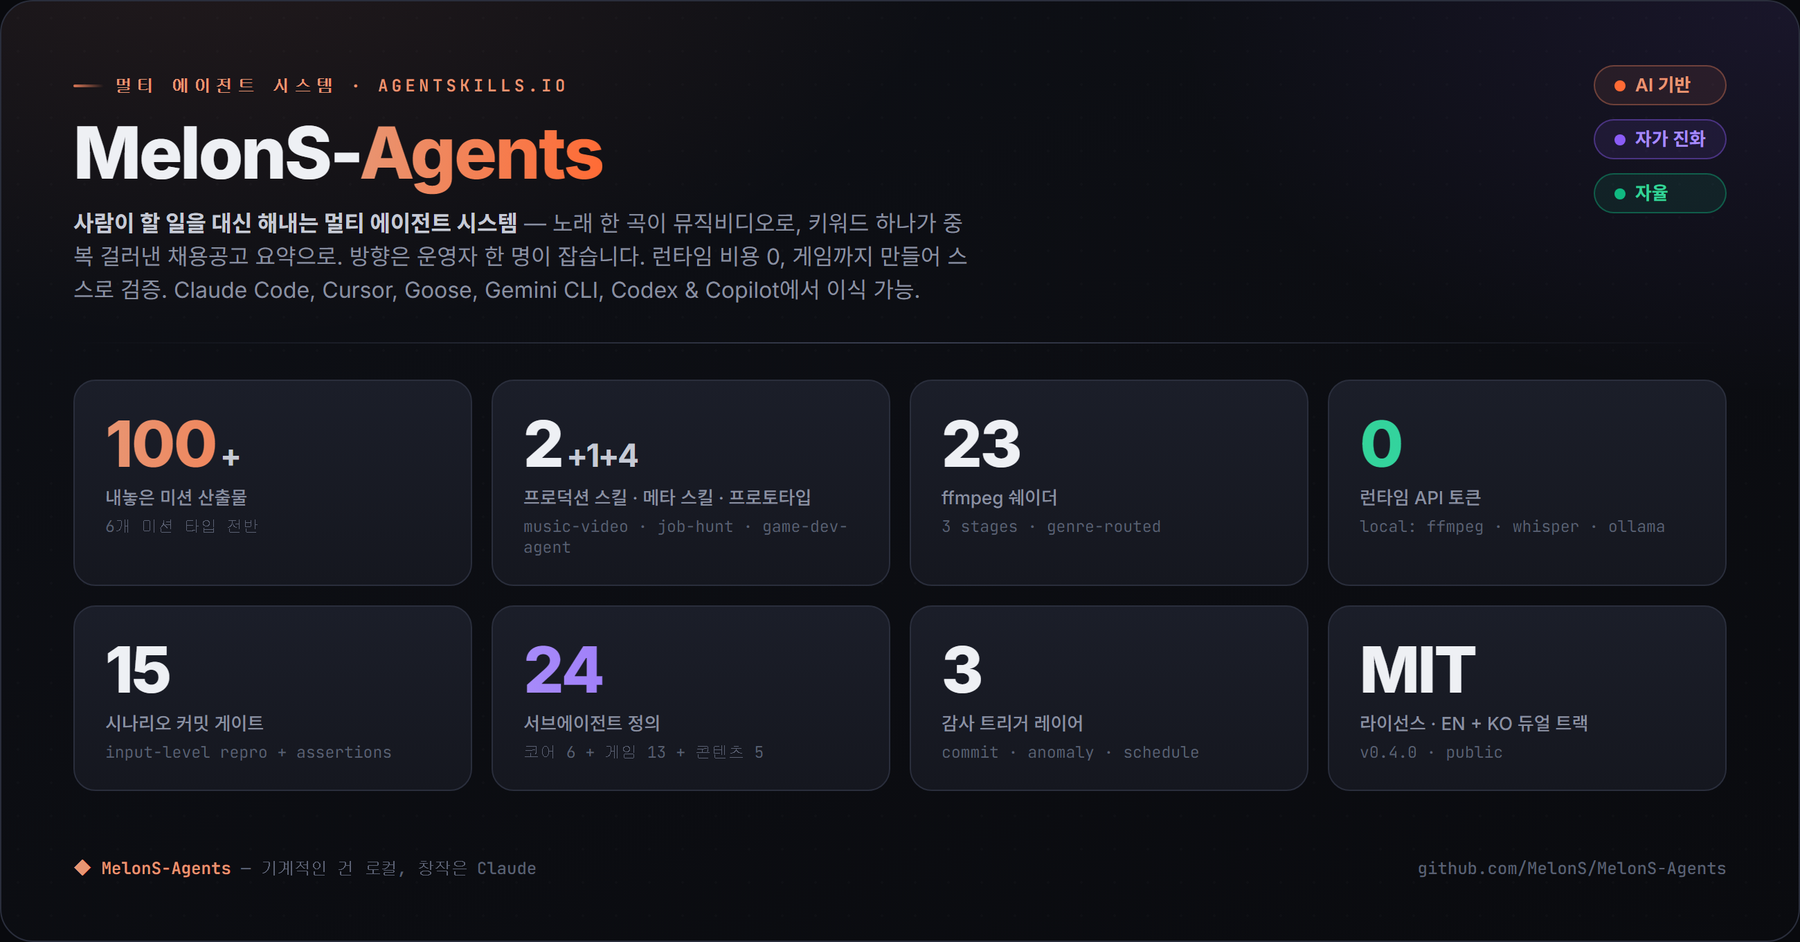
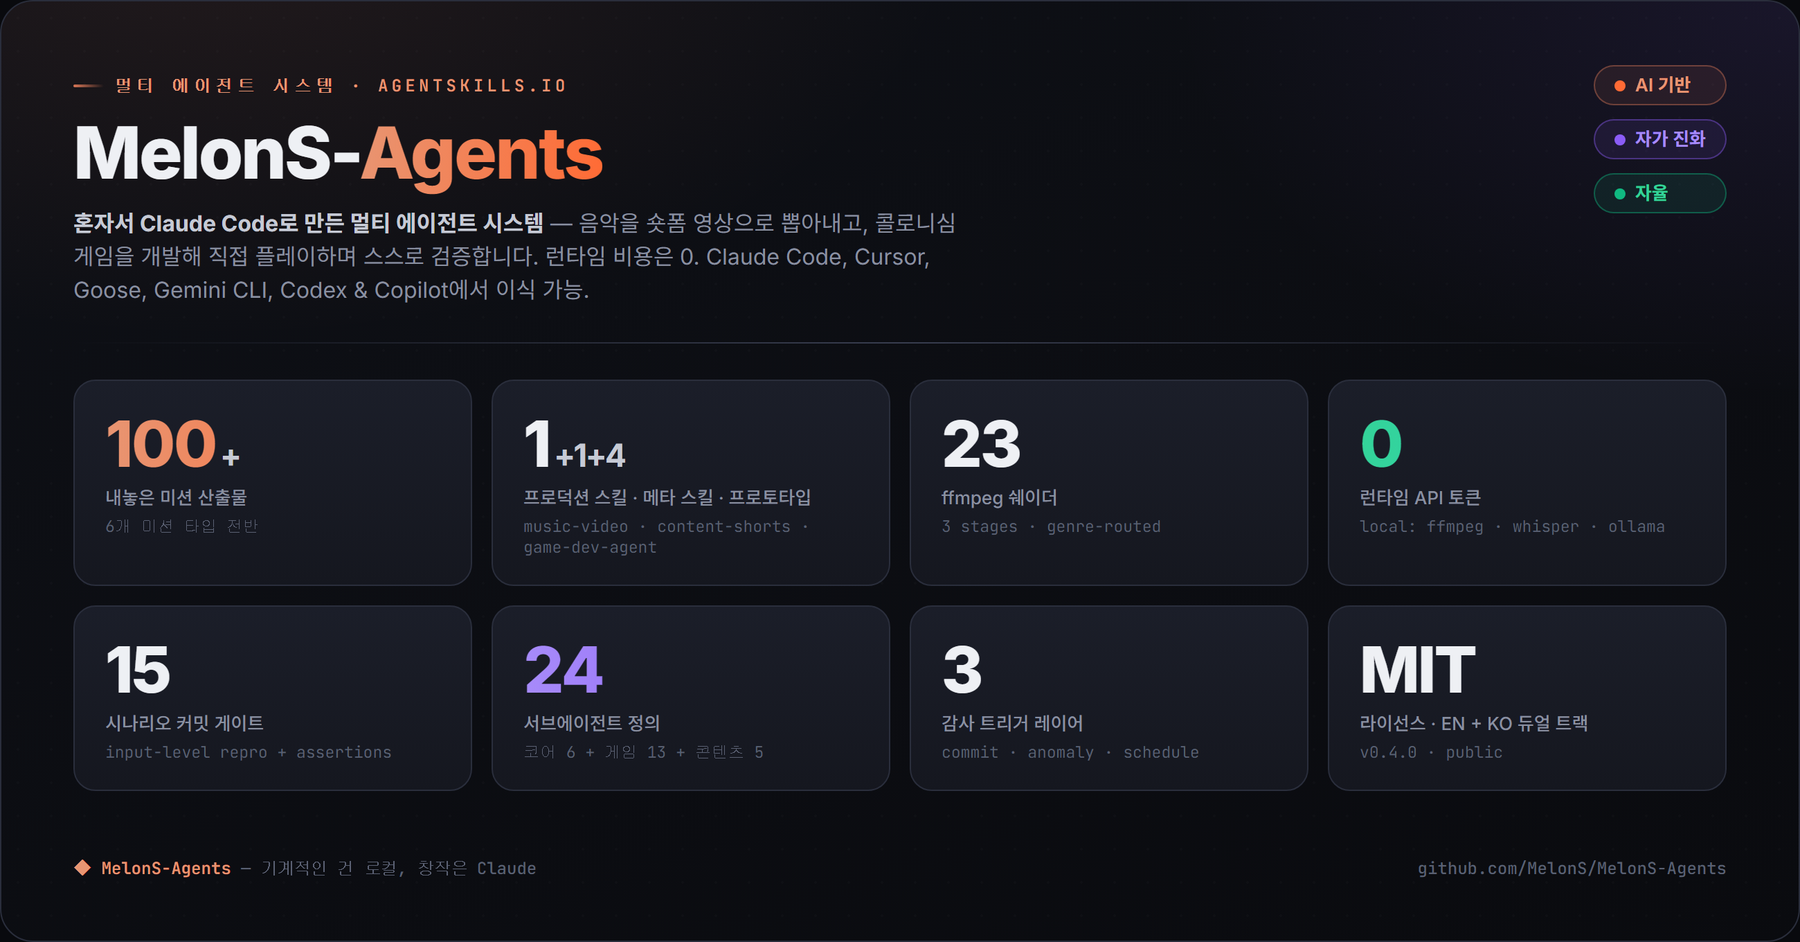
docs(readme): honest reframe — job-hunt parked; plain-Korean first line
Two operator corrections, both honesty/clarity:

1. job-hunt was shown as a Production pipeline, but the Korean job boards it
   targeted (Saramin, Wanted, JobKorea, Worknet…) now block scraping, so the
   live digest never came together — it runs only on mock/dry-run, and dev
   stopped in May. Calling it "production" broke the repo's honest-by-design
   ethos. Reclassified everywhere: table status -> Parked; dropped from the
   "It ships" claim (the one real production pipeline is music-video);
   added to the Honest-by-design negatives; relabeled in Run paths; removed
   from the first line and the hero-stats card (2 production skills -> 1).

2. The reframed first line read awkward in Korean (subject switched mid-
   sentence). Rewrote the identity line as a plain, honest sentence, EN+KO:
   - KO: 혼자서 Claude Code로 만든 멀티 에이전트 시스템입니다. 음악을 숏폼
     영상으로 뽑아내고, 콜로니심 게임을 개발해 직접 플레이하며 스스로 검증합니다.
   - EN: A multi-agent system built solo with Claude Code. It turns music into
     short-form video, and builds a colony-sim game it plays to verify itself.

Re-rendered the hero-stats card (EN+KO) to match. Parity + IP checks pass.

Changed region(s): [[0.0311, 0.2155, 0.5289, 0.3386], [0.3111, 0.5541, 0.4667, 0.5849], [0.28, 0.431, 0.3733, 0.4926]]

diff --git a/README.md b/README.md
@@ -4,9 +4,9 @@
 
 [한국어](./README.ko.md) · **English** · [**Live site →**](https://melons.github.io/MelonS-Agents/)
 
-### A multi-agent system that does your production work: a song → a music video, a keyword → a deduplicated job digest. One operator directs.
+### A multi-agent system built solo with [Claude Code](https://docs.anthropic.com/claude-code). It turns music into short-form video, and builds a colony-sim game it plays to verify itself.
 
-**Built by one operator with [Claude Code](https://docs.anthropic.com/claude-code) · English + Korean from day one.**
+**Zero runtime API cost · English + Korean from day one.**
 
 [![main-protection](https://github.com/MelonS/MelonS-Agents/actions/workflows/main-protection.yml/badge.svg?branch=main)](https://github.com/MelonS/MelonS-Agents/actions/workflows/main-protection.yml)
 ![GitHub last commit](https://img.shields.io/github/last-commit/MelonS/MelonS-Agents?style=flat-square)
@@ -20,25 +20,25 @@
 
 </div>
 
-- **It ships.** Two production pipelines deliver on a schedule — a **music-video** maker (a song → a 60-second 9:16 short) and a **job-hunt** digest (a keyword → a deduplicated Korean job-board summary).
+- **It ships.** The **music-video** pipeline delivers on a schedule — a song → a 60-second 9:16 short (beat-cut, genre-graded). A second pipeline, **content-shorts**, already runs end-to-end but isn't on a cadence yet.
 - **Zero runtime cost.** Local open-source tools (ffmpeg · whisper.cpp · ollama · aubio) do the mechanical work; Claude Code agents only orchestrate — so a mission spends **zero runtime API tokens**.
 - **It checks its own work.** The showcase — the colony-sim **PawnSim** — is *built and play-verified* by the agent: real player clicks replayed, each asserted to actually change game state, long unattended runs graded by a screenshots-only sub-agent.
 
 *One operator's agent system, in the open: the media pipelines are yours to clone and run (Mac/Linux) — the game and the engineering are here to read and learn from.*
 
-![MelonS-Agents — by the numbers: 100+ outputs, 2 production skills, 23 shaders, 0 runtime API tokens, 15-scenario gate, 24 subagents, 3 audit layers, MIT](docs/visuals/01-hero-stats.png)
+![MelonS-Agents — by the numbers: 100+ outputs, 1 production skill, 23 shaders, 0 runtime API tokens, 15-scenario gate, 24 subagents, 3 audit layers, MIT](docs/visuals/01-hero-stats.png)
 
 ## What works today
 
 | Track | What it does | Status | Runnable today |
 |-------|--------------|--------|----------------|
 | **music-video** | a song in → a 60-second 9:16 short (beat-aligned cuts, vintage ffmpeg shaders) | Production\* | ✅ Mac/Linux — `./scripts/first-touch.sh`, ~60 s |
-| **job-hunt** | one seed keyword → a deduplicated Korean job-board digest (11 sources) | Production\* | ✅ ~5 s, no network or keys |
+| **job-hunt** | a keyword → a Korean job-board digest (11 source plugins) | Parked | ❌ KR job boards now block scraping — mock/dry-run only |
 | **PawnSim** · built by `game-dev-agent` | a self-verified colony-sim game prototype | In development | ⚠ Windows + Unity 6000.0.75f1 |
 | **content-shorts** · built by a 4-team legal-gated pipeline | a topic → a sourced, copyright-reviewed 9:16 short (info / news / idol formats) | In development | ⚠ runs end-to-end (2026-07-01); needs a Pexels key |
 | **product-cf** | a product photo → a CF-style short | Parked | ❌ parked on an honest negative finding |
 
-<sub>\*"Production" = ships a real deliverable on a schedule (only these two count today).  `game-dev-agent` is the meta-skill that builds PawnSim; it joins the production count once PawnSim ships on a cadence.</sub>
+<sub>\*"Production" = ships a real deliverable on a schedule (only **music-video** qualifies today).  `game-dev-agent` is the meta-skill that builds PawnSim; it joins the production count once PawnSim ships on a cadence.</sub>
 
 ## It checks its own work
 
@@ -94,6 +94,7 @@ A multi-agent system that needs constant steering hasn't escaped the effort it w
 Documented negatives, kept in the open — because honest scoping is the credibility the rest of this rests on:
 
 - **`product-cf` is parked** on a real negative finding.  The free / local "make it genuinely 3D" approaches (depth-parallax, cylinder-wrap turntable, local image-to-video) didn't clear a real-CF quality bar on a 16 GB machine; a convincing result needs paid cloud image-to-video or a bigger GPU.  Kept gated-off in the tree, decision pending.
+- **`job-hunt` is parked** — the Korean job boards it targeted (Saramin, Wanted, JobKorea, Worknet…) now block scraping, so the live digest never came together; it runs only on mock / dry-run data.  Built out over two days in May, then stopped — the code stays in the tree.
 - **Cel-shading was deliberately deferred** — knowing where the ffmpeg wall is beats faking the result.
 - **`100+ outputs` is a working estimate, not a ledger** — mission outputs stay local under `records/` (gitignored), so the count isn't independently auditable from the repo.
 
@@ -120,11 +121,11 @@ MUSIC_VIDEO_DEMO_MODE=1 ./agents/missions/music-video/run.sh demo
 ```
 Output at `records/missions/<date>/music-video-demo-<HHMMSS>/outputs/short.mp4`.  All env vars, flags, the shader catalog, and the full Pexels + operator-music path: [`docs/music-video-pipeline-reference.md`](docs/music-video-pipeline-reference.md).
 
-**job-hunt** (no network, no keys)
+**job-hunt** (parked — mock/dry-run only)
 ```bash
 skills/job-hunt/scripts/run.sh --seed "Problem Solver" --dry-run
 ```
-Flip the `global-*` plugins to live mode (`JH_GLOBAL_ATS_LIVE=1 …`) for real postings without a key.  Per-source activation + the 4 Claude enrichment utilities: [`docs/skills/job-hunt.md`](docs/skills/job-hunt.md) · sample digest: [`docs/samples/job-hunt-digest-mock.md`](docs/samples/job-hunt-digest-mock.md).
+The KR sources (Saramin, Wanted, JobKorea…) now block scraping; the `global-*` plugins (`JH_GLOBAL_ATS_LIVE=1 …`) may still return live remote postings.  Per-source activation + the 4 Claude enrichment utilities: [`docs/skills/job-hunt.md`](docs/skills/job-hunt.md) · sample digest: [`docs/samples/job-hunt-digest-mock.md`](docs/samples/job-hunt-digest-mock.md).
 
 **PawnSim** (Windows + Unity 6000.0.75f1 LTS)
 ```bash
